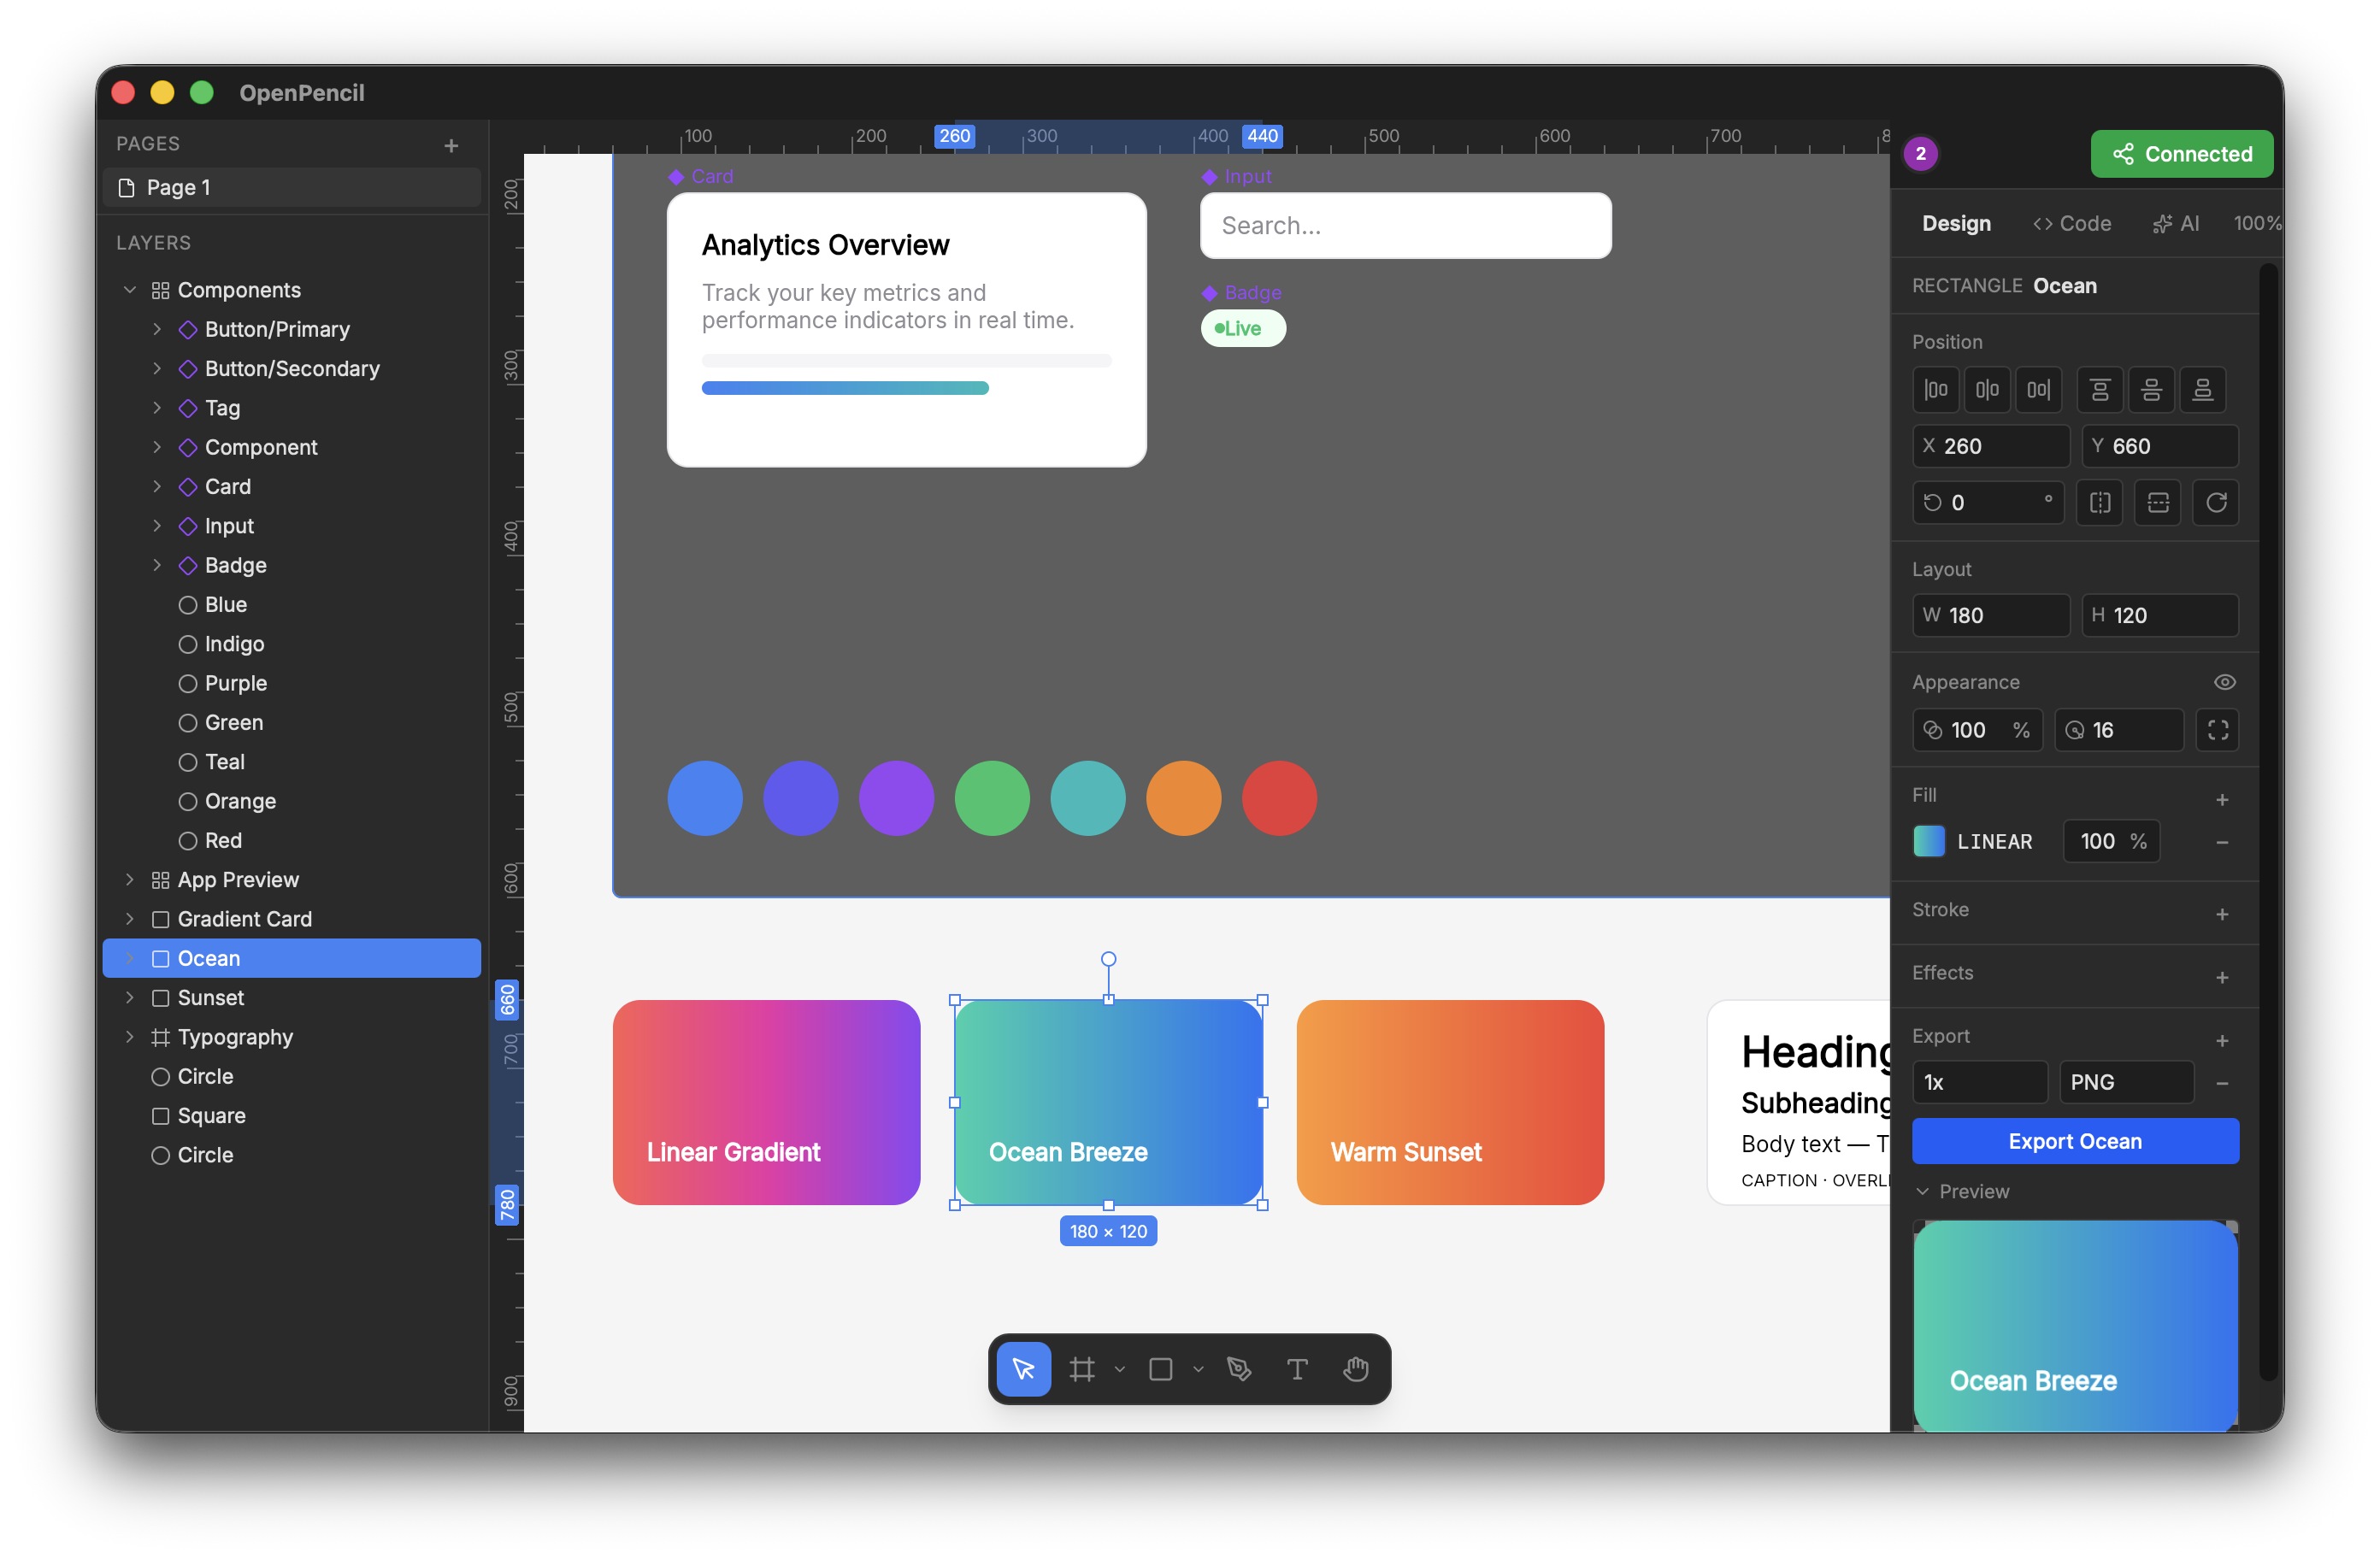
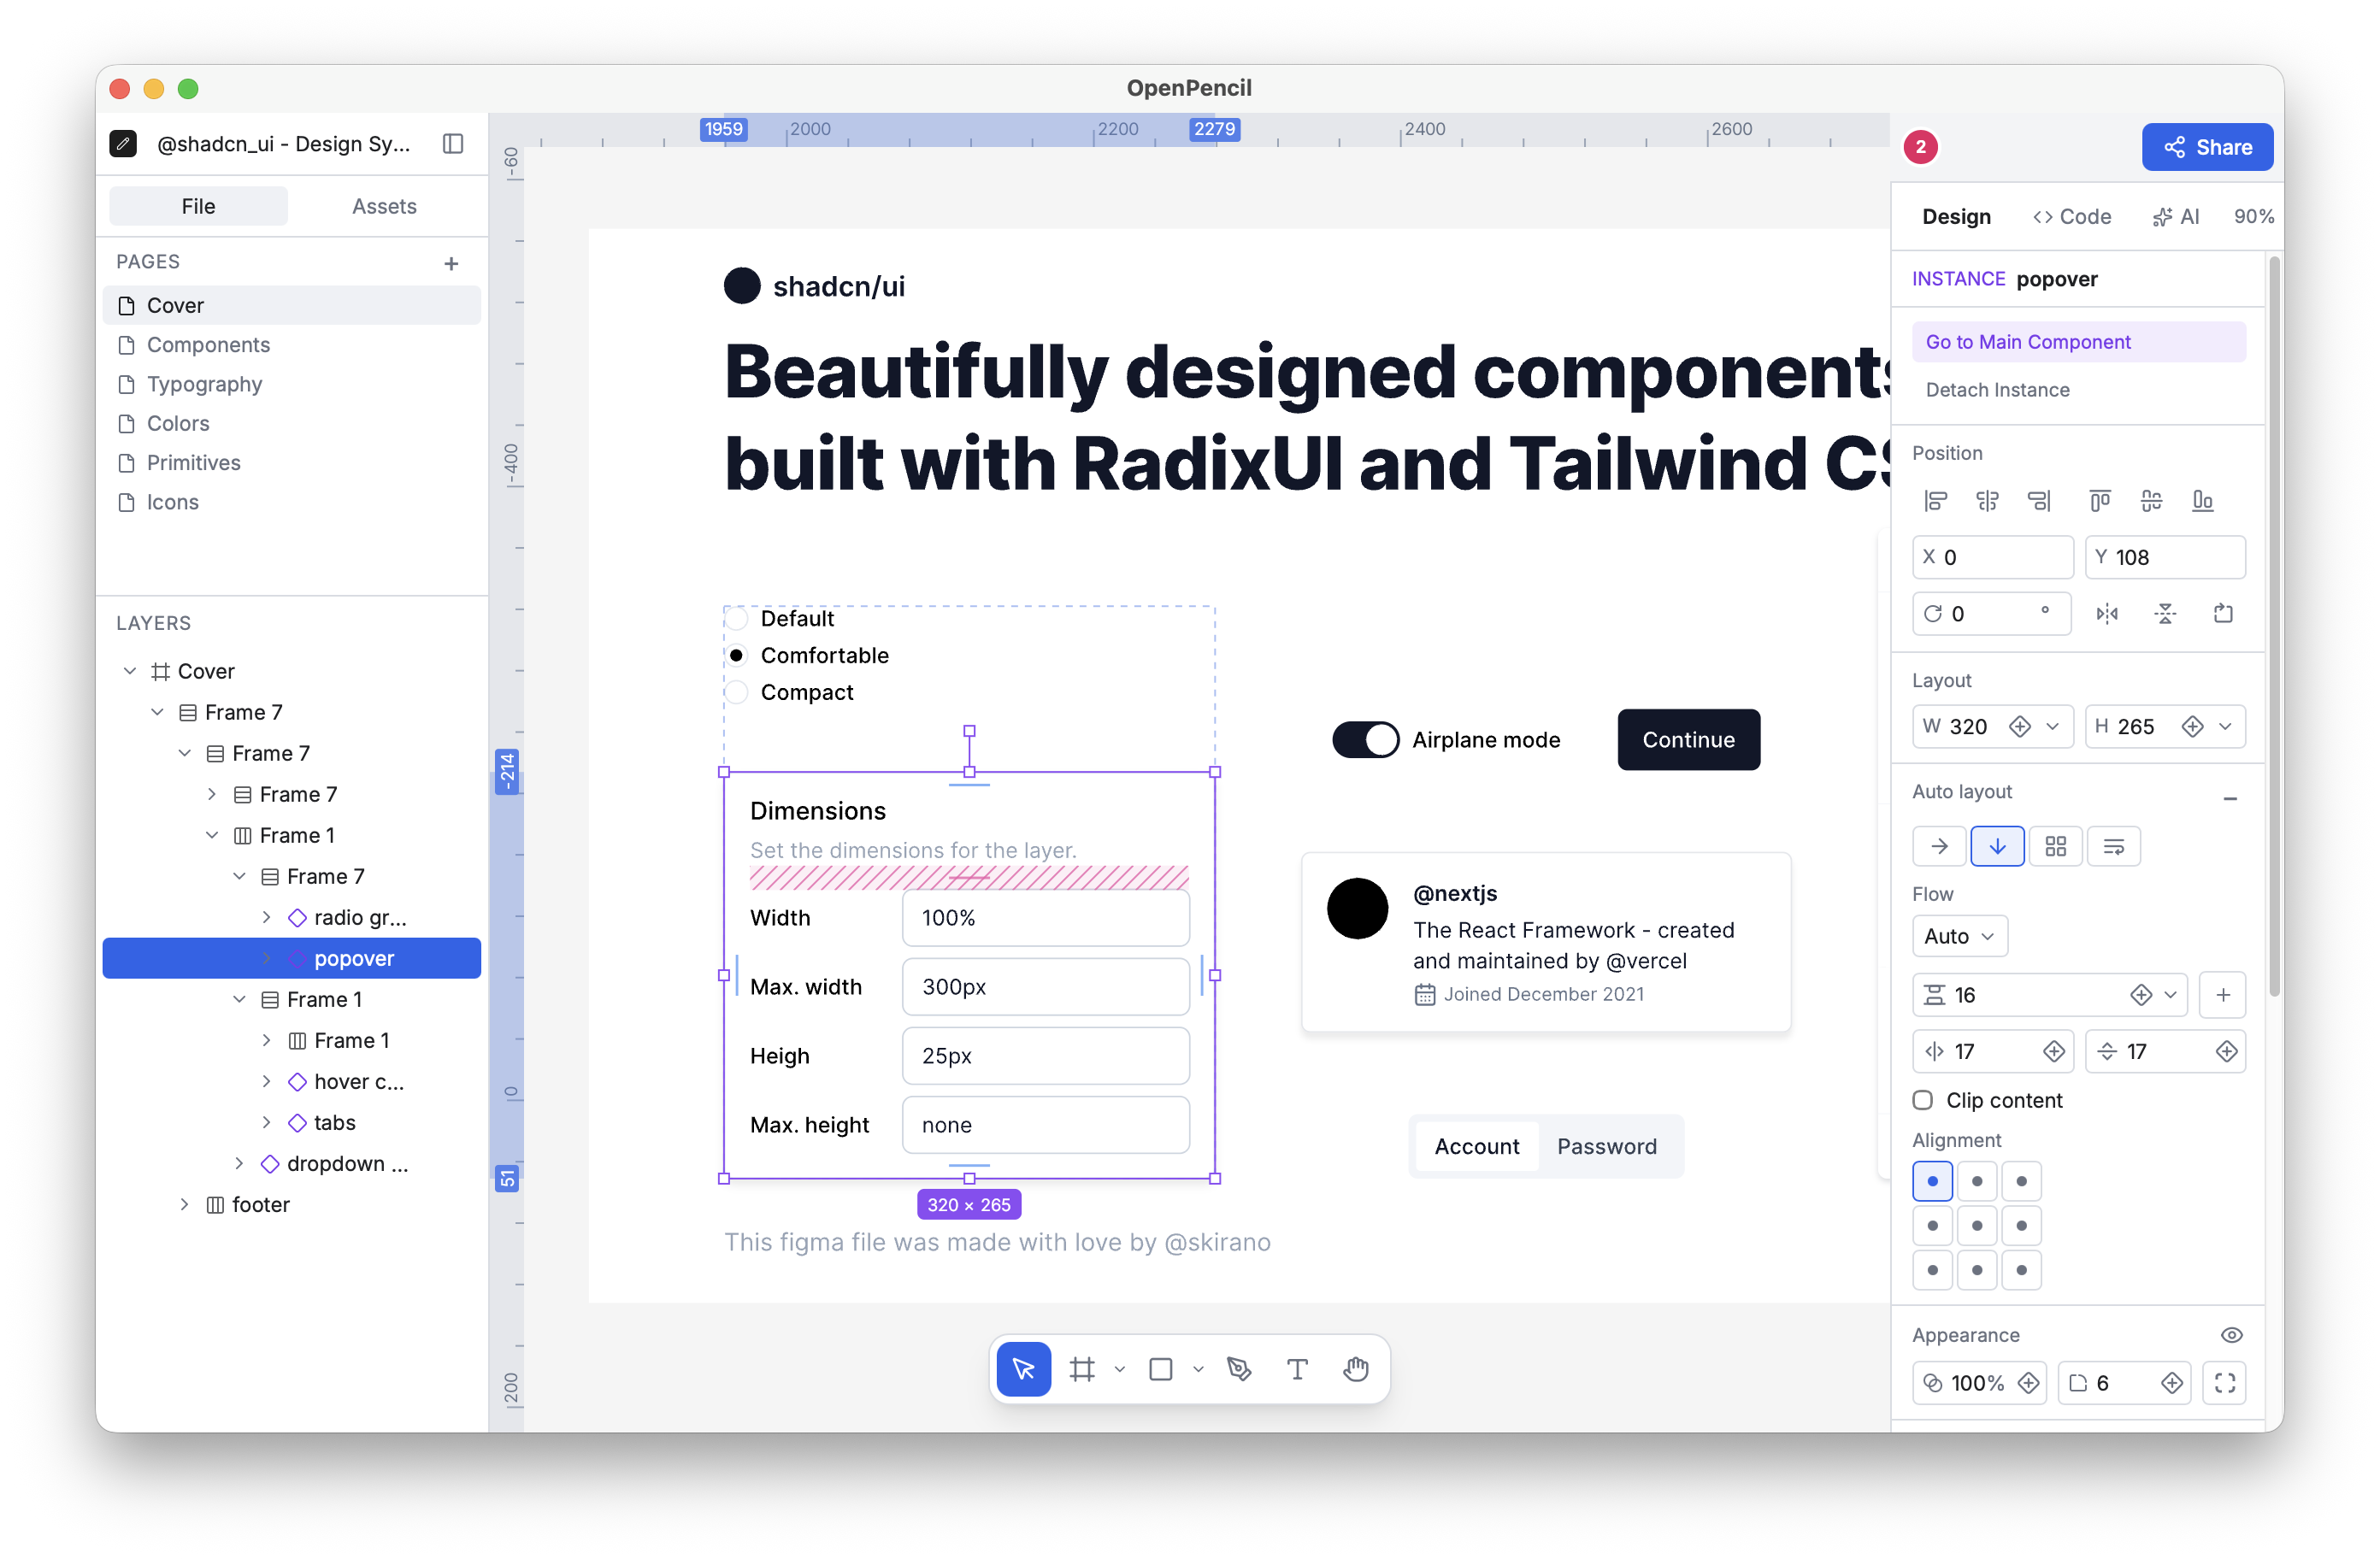
docs: update MCP setup and landing screenshot

diff --git a/packages/docs/programmable/mcp-server.md b/packages/docs/programmable/mcp-server.md
@@ -7,12 +7,49 @@ Two transports: **stdio** for MCP clients, **HTTP** for browser extensions and s
 ## Install
 
 ```sh
-bun add -g @open-pencil/mcp
+npm install -g @open-pencil/mcp
 ```
 
 ## Stdio (Claude Code, Cursor, etc.)
 
-Add to your MCP config (e.g. `~/.claude/settings.json` or `.cursor/mcp.json`):
+The stdio server connects to the running OpenPencil app via WebSocket (port 7601). Make sure the desktop app is open with a document loaded.
+
+### Claude Code
+
+Install the MCP package and register it with Claude Code:
+
+```sh
+npm install -g @open-pencil/mcp
+claude mcp add --scope user open-pencil -- openpencil-mcp
+```
+
+Check the connection:
+
+```sh
+claude mcp list
+```
+
+Claude Code asks before using each MCP tool unless you allow the server's tools. To auto-approve OpenPencil tools only, add this to `~/.claude/settings.json`:
+
+```json
+{
+  "permissions": {
+    "allow": ["mcp__open-pencil__*"]
+  }
+}
+```
+
+This is narrower than `--permission-mode bypassPermissions`, which skips prompts for every tool. You can also approve tools interactively from Claude's prompt by choosing “Yes, and don't ask again”.
+
+Example prompt:
+
+```text
+Use the open-pencil MCP server to inspect the current page and create a small hero section on the canvas.
+```
+
+### Other MCP clients
+
+Add to your MCP config (for example `.cursor/mcp.json`):
 
 ```json
 {
@@ -23,8 +60,6 @@ Add to your MCP config (e.g. `~/.claude/settings.json` or `.cursor/mcp.json`):
   }
 }
 ```
-
-The stdio server connects to the running OpenPencil app via WebSocket (port 7601). Make sure the app is open with a document loaded.
 
 Or run from source without installing:
 

diff --git a/README.md b/README.md
@@ -159,12 +159,12 @@ Use Claude Code, Codex, or Gemini CLI directly in the chat panel. The agent conn
 
 **Setup (Claude Code):**
 
-1. Install the ACP adapter: `npm i -g @agentclientprotocol/claude-agent-acp`
+1. Install the ACP adapter: `npm install -g @agentclientprotocol/claude-agent-acp`
 2. Add MCP permission to `~/.claude/settings.json`:
    ```json
    {
      "permissions": {
-       "allow": ["mcp__open-pencil"]
+       "allow": ["mcp__open-pencil__*"]
      }
    }
    ```
@@ -177,8 +177,11 @@ Connect Claude Code, Cursor, Windsurf, or any MCP client to inspect, modify, and
 **Stdio** (Claude Code, Cursor, Windsurf):
 
 ```sh
-bun add -g @open-pencil/mcp
+npm install -g @open-pencil/mcp
+claude mcp add --scope user open-pencil -- openpencil-mcp
 ```
+
+For other MCP clients:
 
 ```json
 {

diff --git a/packages/docs/de/guide/features.md b/packages/docs/de/guide/features.md
@@ -76,7 +76,7 @@ Siehe [KI-Chat](/programmable/ai-chat) für Einrichtung und Anbieter-Details.
 Claude Code, Cursor, Windsurf oder jeden MCP-Client verbinden, um `.fig`-Dateien headless zu lesen und zu schreiben. 90+ Werkzeuge. Zwei Transporte: stdio und HTTP.
 
 ```sh
-bun add -g @open-pencil/mcp
+npm install -g @open-pencil/mcp
 ```
 
 ```json

diff --git a/packages/docs/de/programmable/mcp-server.md b/packages/docs/de/programmable/mcp-server.md
@@ -7,7 +7,7 @@ Two transports: **stdio** for MCP clients, **HTTP** for everything else.
 ## Install
 
 ```sh
-bun add -g @open-pencil/mcp
+npm install -g @open-pencil/mcp
 ```
 
 ## Stdio (Claude Code, Cursor, etc.)

diff --git a/packages/docs/es/guide/features.md b/packages/docs/es/guide/features.md
@@ -76,7 +76,7 @@ Ver [Chat IA](/programmable/ai-chat) para configuración y detalles de proveedor
 Conecta Claude Code, Cursor, Windsurf, o cualquier cliente MCP para leer y escribir archivos `.fig` de forma headless. 90+ herramientas. Dos transportes: stdio y HTTP.
 
 ```sh
-bun add -g @open-pencil/mcp
+npm install -g @open-pencil/mcp
 ```
 
 ```json

diff --git a/packages/docs/es/programmable/mcp-server.md b/packages/docs/es/programmable/mcp-server.md
@@ -7,7 +7,7 @@ Two transports: **stdio** for MCP clients, **HTTP** for everything else.
 ## Install
 
 ```sh
-bun add -g @open-pencil/mcp
+npm install -g @open-pencil/mcp
 ```
 
 ## Stdio (Claude Code, Cursor, etc.)

diff --git a/packages/docs/fr/guide/features.md b/packages/docs/fr/guide/features.md
@@ -76,7 +76,7 @@ Voir [Chat IA](/programmable/ai-chat) pour la configuration et les détails des 
 Connectez Claude Code, Cursor, Windsurf ou tout client MCP pour lire et écrire des fichiers `.fig` en mode headless. 90+ outils. Deux transports : stdio et HTTP.
 
 ```sh
-bun add -g @open-pencil/mcp
+npm install -g @open-pencil/mcp
 ```
 
 ```json

diff --git a/packages/docs/fr/programmable/mcp-server.md b/packages/docs/fr/programmable/mcp-server.md
@@ -7,7 +7,7 @@ Two transports: **stdio** for MCP clients, **HTTP** for everything else.
 ## Install
 
 ```sh
-bun add -g @open-pencil/mcp
+npm install -g @open-pencil/mcp
 ```
 
 ## Stdio (Claude Code, Cursor, etc.)

diff --git a/packages/docs/guide/features.md b/packages/docs/guide/features.md
@@ -76,7 +76,7 @@ See [AI Chat](/programmable/ai-chat) for setup and provider details.
 Connect Claude Code, Cursor, Windsurf, or any MCP client to read and write `.fig` files headlessly. 90+ tools. Two transports: stdio and HTTP.
 
 ```sh
-bun add -g @open-pencil/mcp
+npm install -g @open-pencil/mcp
 ```
 
 ```json

diff --git a/packages/docs/it/guide/features.md b/packages/docs/it/guide/features.md
@@ -76,7 +76,7 @@ Vedi [Chat AI](/programmable/ai-chat) per configurazione e dettagli sui provider
 Connetti Claude Code, Cursor, Windsurf o qualsiasi client MCP per leggere e scrivere file `.fig` in modalità headless. 90+ strumenti. Due trasporti: stdio e HTTP.
 
 ```sh
-bun add -g @open-pencil/mcp
+npm install -g @open-pencil/mcp
 ```
 
 ```json

diff --git a/packages/docs/it/programmable/mcp-server.md b/packages/docs/it/programmable/mcp-server.md
@@ -7,7 +7,7 @@ Two transports: **stdio** for MCP clients, **HTTP** for everything else.
 ## Install
 
 ```sh
-bun add -g @open-pencil/mcp
+npm install -g @open-pencil/mcp
 ```
 
 ## Stdio (Claude Code, Cursor, etc.)

diff --git a/packages/docs/pl/guide/features.md b/packages/docs/pl/guide/features.md
@@ -76,7 +76,7 @@ Zobacz [Czat AI](/programmable/ai-chat) dla konfiguracji i szczegółów dostawc
 Podłącz Claude Code, Cursor, Windsurf lub dowolnego klienta MCP do odczytu i zapisu plików `.fig` headlessly. 90+ narzędzi. Dwa transporty: stdio i HTTP.
 
 ```sh
-bun add -g @open-pencil/mcp
+npm install -g @open-pencil/mcp
 ```
 
 ```json